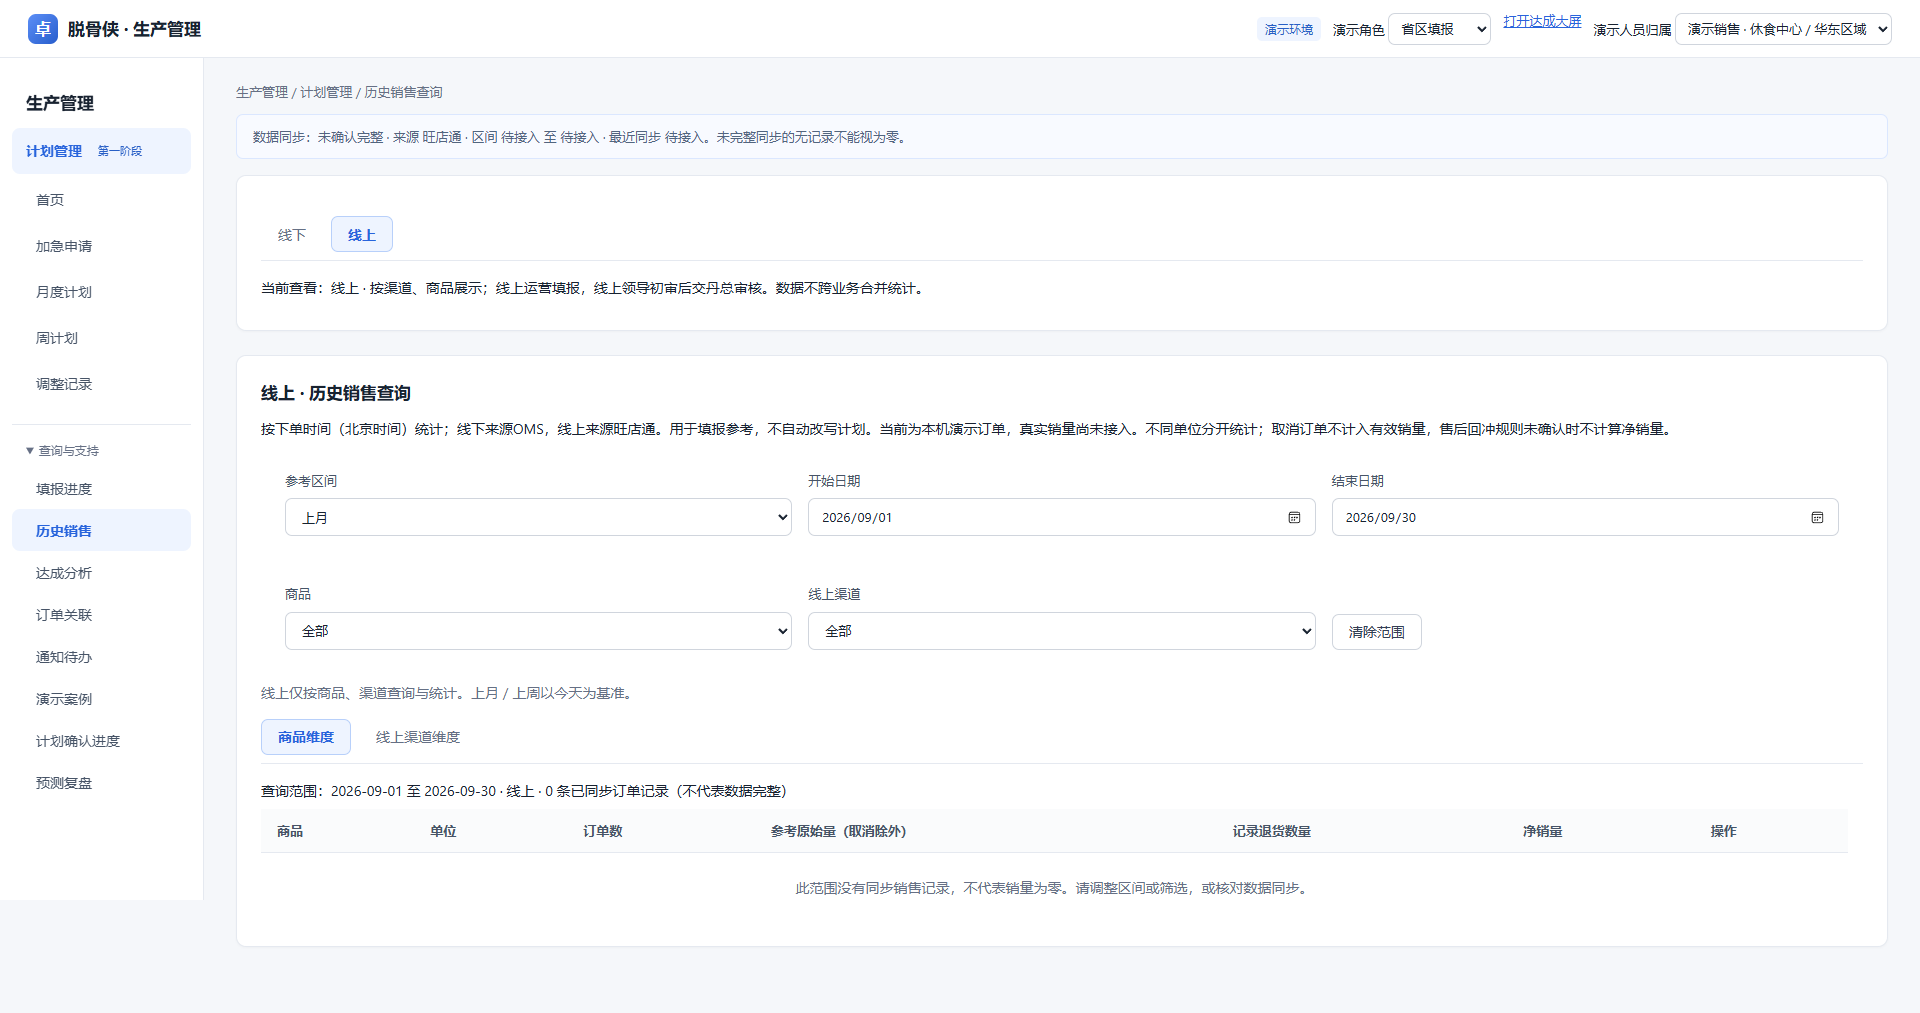
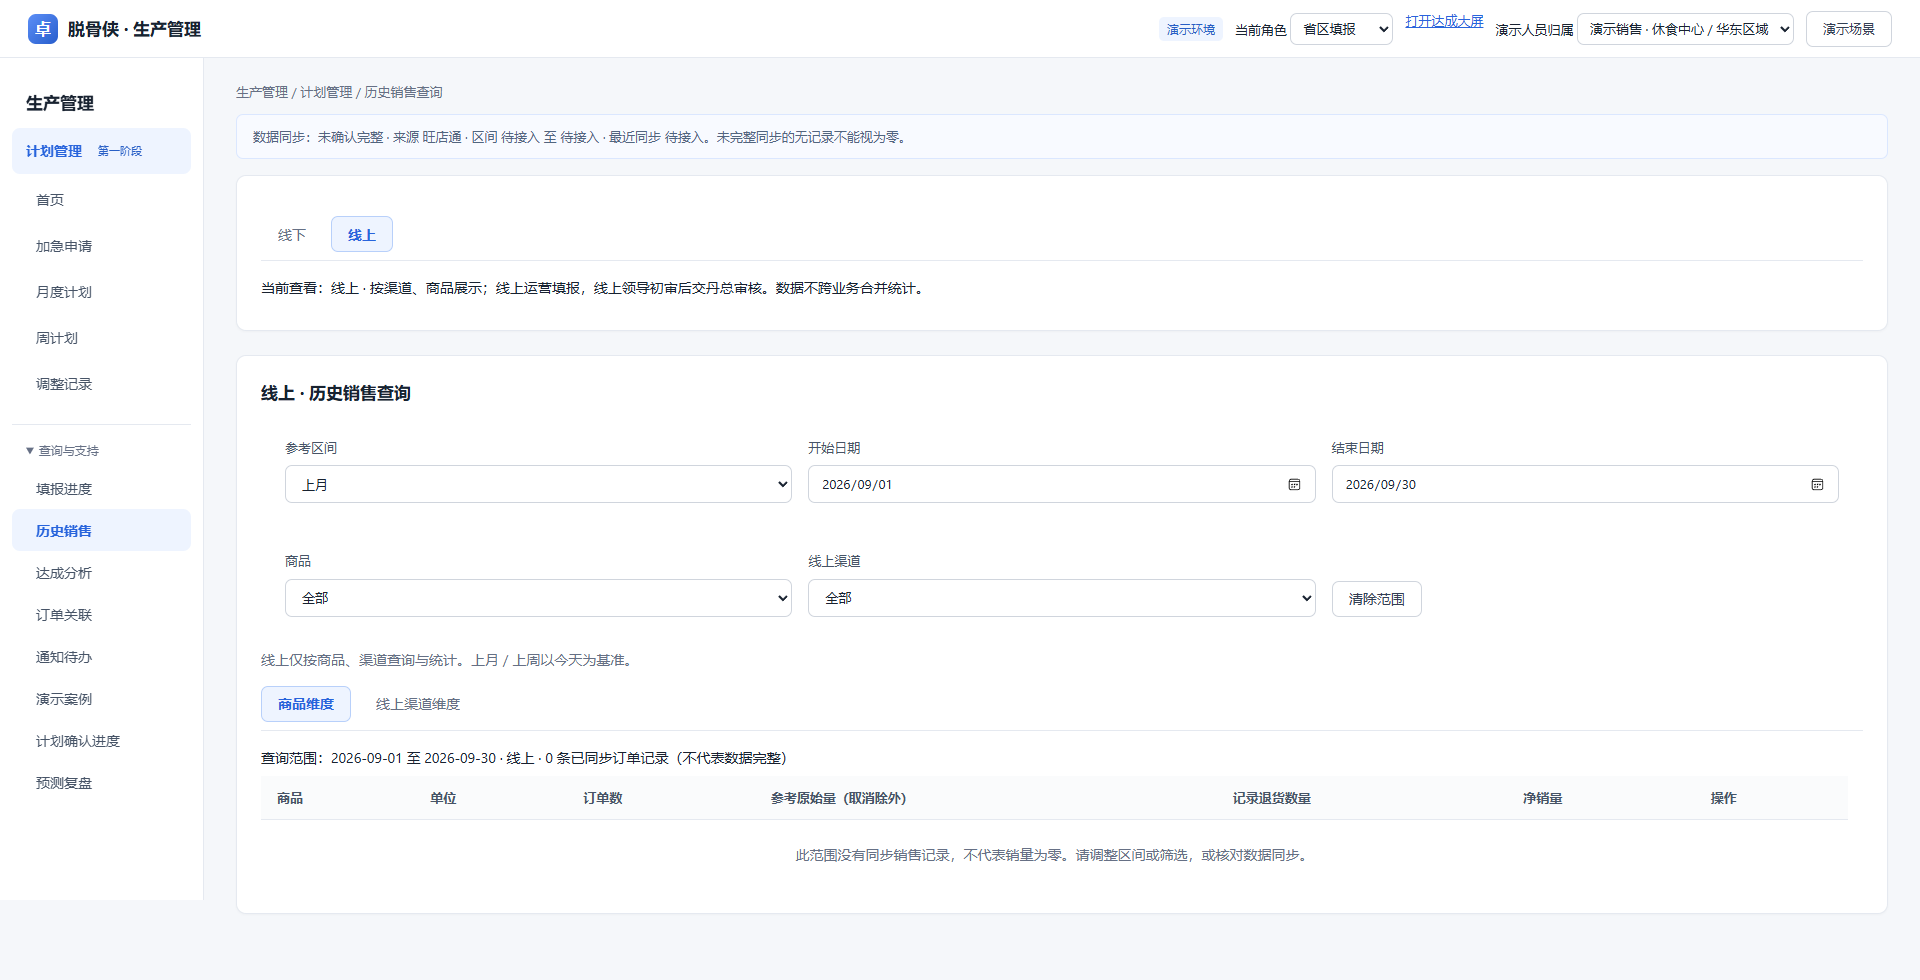
Auto sync 2026-10-14 10:14:06

diff --git a/09-设计与原型/销售计划管理/计划操作补充.js b/09-设计与原型/销售计划管理/计划操作补充.js
@@ -33,7 +33,7 @@
  TaskConfirmation.initialize(d);BusinessRelease.syncChanges(d);d.presentationDataVersion=2;
  }
  function demoMenu(a){
- if(document.body.dataset.page==='screen')return;const bar=document.querySelector('header .row');if(!bar||document.getElementById('demoSceneMenu'))return;
+ if(document.body.dataset.page==='screen'||['商品管理员','规则管理员'].includes(a.role()))return;const bar=document.querySelector('header .row');if(!bar||document.getElementById('demoSceneMenu'))return;
  const button=document.createElement('button');button.id='demoSceneMenu';button.textContent='演示场景';bar.append(button);
  button.onclick=()=>{const d=a.data(),role=a.role(),list=d.closedLoopExamples.filter(x=>x.role===role||['省区填报','线上运营'].includes(role)&&x.business===(role==='线上运营'?'online':'offline')&&['plans','acceptance'].includes(x.view));
  a.modal('选择演示场景','<div class="table-wrap"><table><thead><tr><th>场景</th><th>业务</th><th>类型 / 周期</th><th>操作</th></tr></thead><tbody>'+list.map((x,i)=>'<tr><td>'+E(x.name)+'</td><td>'+(x.business==='online'?'线上':'线下')+'</td><td>'+(x.kind==='month'?'月度':'周')+' / '+E(x.start)+'</td><td><button data-ready-scene="'+i+'">进入</button></td></tr>').join('')+'</tbody></table></div><div class="actions"><button id="readySales">历史销售与订单</button><button id="readyActual">实际达成</button><button id="readyHome">首页统计</button><button id="readyUrgent">加急处理</button></div>');

diff --git a/09-设计与原型/销售计划管理/README.md b/09-设计与原型/销售计划管理/README.md
@@ -74,6 +74,8 @@
 打开14主页面、15大屏或16历史查询时自动补充幂等样例：22个月/周固定批次节点、10条加急申请、48条实际达成样例，以及2026年9月和10月的逐日OMS/旺店通模拟订单（含取消、售后）。不覆盖已存在及已操作记录，不替正式数据修改销量口径或同步配置。
 
 右上角“演示场景”按当前角色选择计划节点，自动定位周期；“实际达成”展示2026年8月独立模拟口径的0%、60%、100%、125%场景；“历史销售与订单”进入查询，可按商品、客户或渠道以及组织维度下钻。月、周审核确认仍相互独立。需完整演示线上链时切换线上领导→丹总→计划部门，线下切换大区→中心→严总→计划部门。规则和商品页面保留已有配置样例。历史销售的原始量可展示，未完整同步或未确认口径的数据不伪装成已确认净销量。
+“演示场景 → 首页统计”可展示首页计划数、数量、实际完成与达成率；此视图仅选择独立模拟样例，不改变默认统计数据口径。订单关联页按计划预建匹配索引，销量归一化在单次页面渲染内复用，后续操作重新计算，避免较多测试数据导致重复计算。
+
 
 
 
